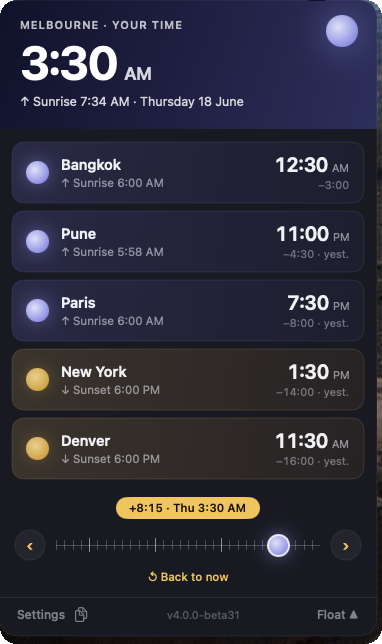
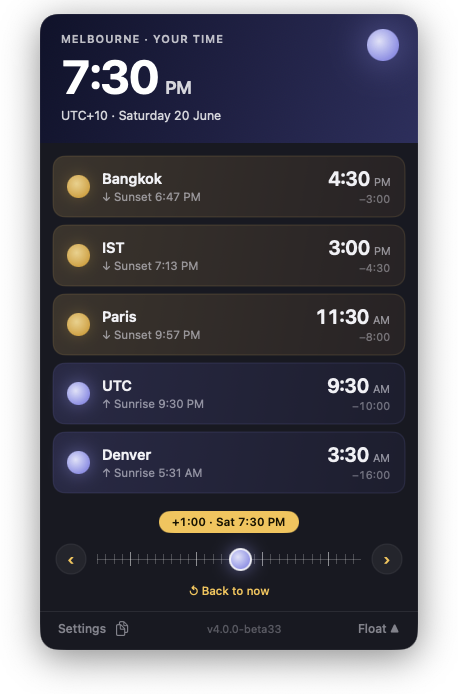
docs: add the mid-travel time-travel.png (completes the #172 set)

diff --git a/docs/screenshots/README.md b/docs/screenshots/README.md
@@ -1,6 +1,6 @@
 # Manual screenshots
 
-These images are referenced by `docs/manual.md`. Re-captured from `4.0.0-beta33` (issue #172) as clean ⌥-click window/popover grabs (transparent background, no baked-in desktop). Exception: `time-travel.png` is still the earlier beta31 capture — a fresh mid-travel shot wasn't part of the #172 batch.
+These images are referenced by `docs/manual.md`. Re-captured from `4.0.0-beta33` (issue #172) as clean ⌥-click window/popover grabs (transparent background, no baked-in desktop).
 
 | File | What it shows |
 |------|---------------|
